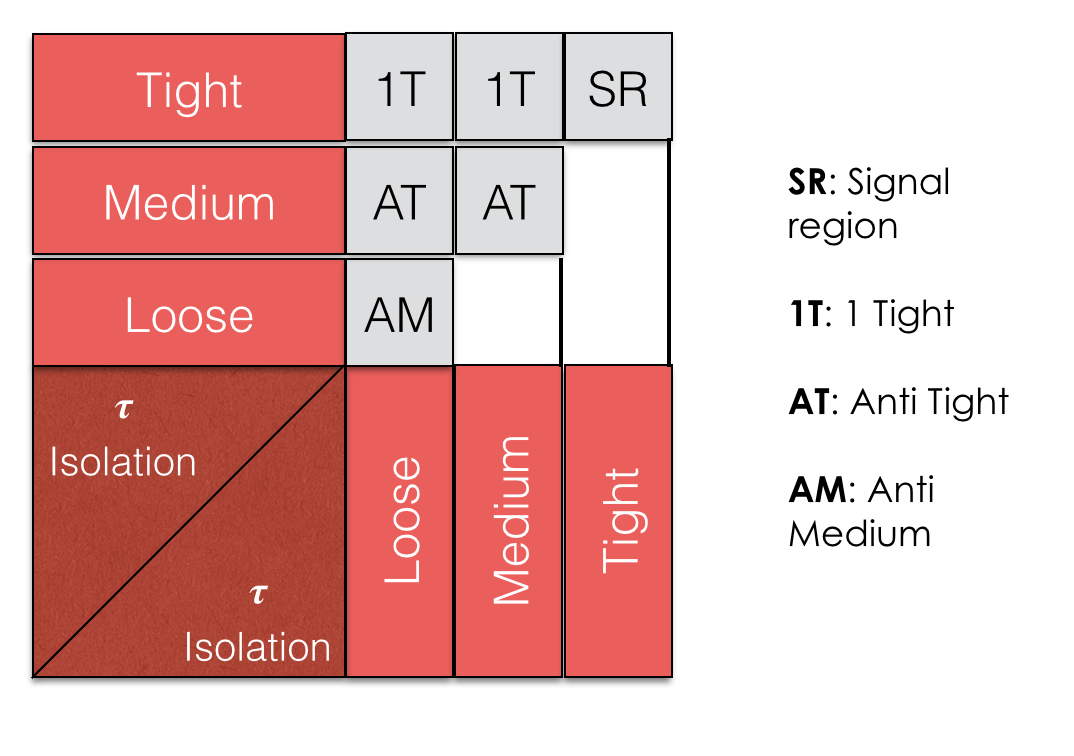
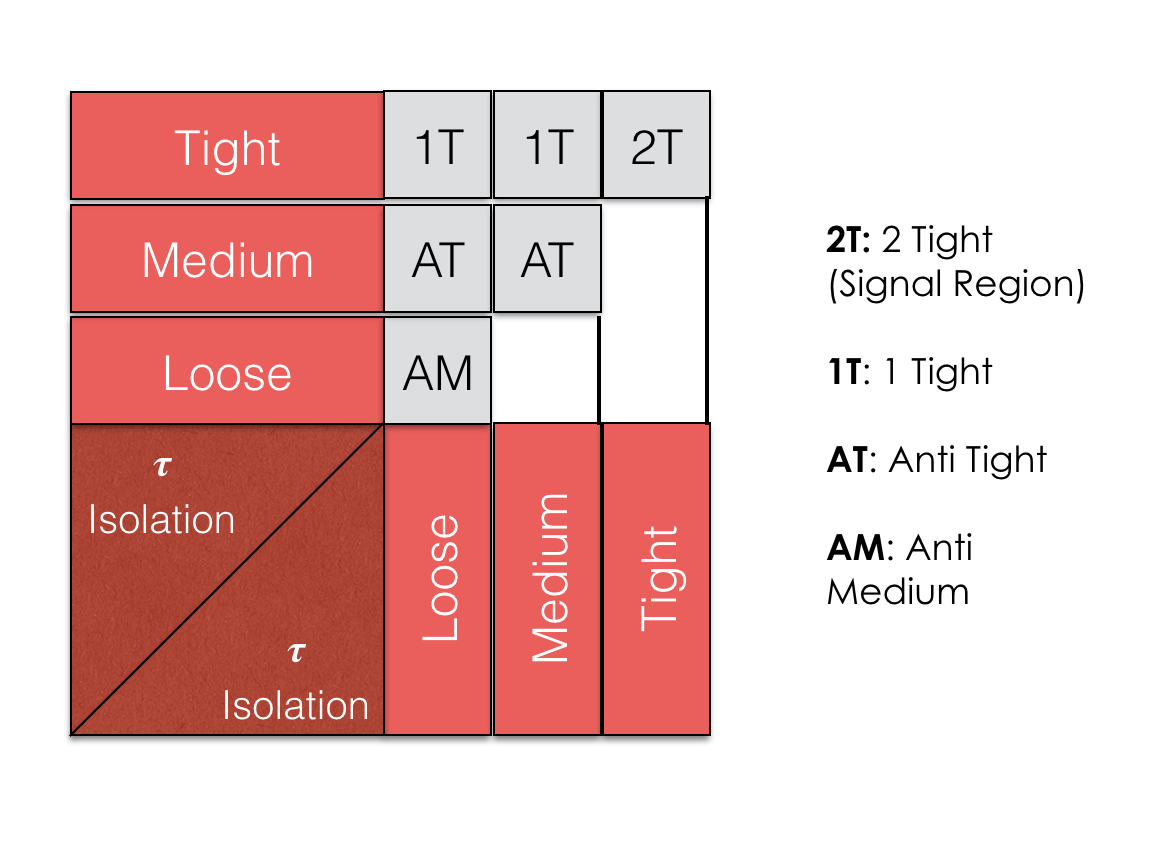
corrections for 8Tev analysis

diff --git a/analysis/analysis.tex b/analysis/analysis.tex
@@ -6,33 +6,22 @@ The following chapter describes the analysis with two same sign \hadtau and two 
 The analysis is performed using data collected with the CMS detector
 in proton-proton collisions at a centre of mass energy of \CM = 8\tev at the LHC. The data samples correspond to an integrated luminosity of \lumiOld. 
 
-Even though the analysis original concept was relying on the usage of a VBF-based trigger for an online selections on the kinematic properties of the di-jet system resulting from the VBF processes the only unprescaled available alternative is the \texttt{HLT\_\-DoubleMedium\-IsoPFTau35\_\-Trk*\_\-eta2p1\_\-Prong1\_\-v*} trigger. This trigger is the least competitive among all the lepton trigger but is the one with the highest signal acceptance for the \hadtau channel.
+The first analysis concept was relying on the usage of a VBF-based trigger for online selection. By doing its online selction  over the properties of the di-jet system
 
-------
-The events preselected for this analysis in the τµτhad, τeτµ, and τµτµ final states are required
-to pass the single-muon Level-1 (L1) trigger with a pT threshold of 7 GeV and the single
-muon High Level Trigger (HLT) [15], with a threshold varying from 9 GeV to 15 GeV, depending
-on the instantaneous luminosity. Events in the τeτhad final state are selected using
-the single-electron L1 trigger with a threshold of 8 GeV in the transverse energy, and a
-single-electron HLT trigger with a threshold of 12 GeV at higher instantaneous luminosity.
-At the end of the 2010 data taking period, a combined e+τ trigger was used to maintain
-efficiency as the instantaneous luminosity increased. The trigger has the same L1 requirements
-as the electron trigger, but the HLT requires the presence of an electron of transverse
-energy larger than 12 GeV and a hadronic tau decay with pT larger than 15 GeV, tagged
-with a simplified version of the tau reconstruction algorithm with a less restrictive selection
-than the one used in the offline analysis. The tau reconstruction at HLT is performed
-using PF objects. Jets are reconstructed with an iterative cone algorithm and tracking is
-performed only for jets with ET above 8 GeV. All charged particles are treated as pions,
-e.g. no muon or electron identification was applied. It is required that there is at least one
-track of pT > 1 GeV in a cone of radius 0.2 and no additional charged hadrons (tracks)
-with pT above 1.5 GeV in a cone of ∆R = 0.4. The efficiency of the L1+HLT to trigger on
-τ leptons is measured from data and is found to be ≈ 93% for a τhad identified by the full
-offline algorithm with a reconstructed pT above 15 GeV.
-Offline event selection starts with the requirement of a wel
+The original analysis design considered the usage of a VBF-based trigger. By doing the online selection over the properties of the hard jets coming from VBF processes, this trigger would a given a great freedom on the offline selection of the \hadtau properties and on \met.
 
-http://download.springer.com/static/pdf/653/art%253A10.1007%252FJHEP08%25282011%2529117.pdf?originUrl=http%3A%2F%2Flink.springer.com%2Farticle%2F10.1007%2FJHEP08%282011%29117&token2=exp=1495810198~acl=%2Fstatic%2Fpdf%2F653%2Fart%25253A10.1007%25252FJHEP08%2525282011%252529117.pdf%3ForiginUrl%3Dhttp%253A%252F%252Flink.springer.com%252Farticle%252F10.1007%252FJHEP08%25282011%2529117*~hmac=d3a839e8124a0e25a7d56a028900b1d84ae37f5774cf28adcc18e24002322230
+However the available HLT trigger was seeded by \met L1 trigger that was fully efficient at roughly $\met > 250\gev$. Implementing such value in the offline event selection would have had a drastic impact on signal events statistics as previously shown on \autoref{fig:VBF_met_pttau}.
 
------
+The other available trigger strategy was relying on the choice of a double-lepton trigger for each of the different search channel. In case of the \hadtau\hadtau channel the only unprescaled available alternative is the \texttt{HLT\_\-DoubleMedium\-IsoPFTau35\_\-Trk*\_\-eta2p1\_\-Prong1\_\-v*} trigger. This trigger is the least competitive among all the lepton trigger but is the one with the highest signal acceptance for the \hadtau channel. An efficiency study on the selected trigger is shown on \autoref{fig::trigger_turnon}.
+
+ 	\begin{figure}[tbh!]
+	\centering
+	\begin{tabular}{cc}
+		\includegraphics[width=0.75\textwidth]{analysis/pics/trigger_turnon.png}
+	\end{tabular}
+	\caption{Efficiency study on the \texttt{HLT\_\-DoubleMedium\-IsoPFTau35\_\-Trk*\_\-eta2p1\_\-Prong1\_\-v*} trigger versus the \hadtau transverse energy.The comparison of the fit curves given by the convolution of the step function with the Crystal Ball (in green) and the Gaussian (in red) is reported\cite{bib:dthesis:riccardoManzoni}.}
+	\label{fig::trigger_turnon}
+\end{figure}
 
 \section{Signal and background samples}
 
@@ -42,14 +31,14 @@ http://download.springer.com/static/pdf/653/art%253A10.1007%252FJHEP08%25282011%
 
 All the background yields, except for QCD, are taken from simulation. Simulated samples of signal and background events are generated using Monte Carlo event generators.
 
-The signal event samples are generated with the \texttt{MadGraph v5.1.5} program \cite{Alwall:2011uj}, considering pair production of gauginos with two associated partons. The signal events are generated requiring a pseudorapidity gap $|\deltaeta| > 4.2$ between the two partons, with $\pt > 30\gev$ for each parton. Signal cross sections are calculated at leading order using the MadGraph generator. The range of signal cross sections is $50^{–1}$ fb for \charginopm = \neutralinotwo masses of 100, 200 and 300\gev.
+The signal event samples are generated with the \texttt{MadGraph v5.1.5} program \cite{Alwall:2011uj}, considering pair production of gauginos with two associated partons. The signal events are generated requiring a pseudorapidity gap $|\deltaeta| > 4.2$ between the two partons, with $\pt > 25\gev$ for each parton. Signal cross sections are calculated at leading order using the MadGraph generator. The range of signal cross sections is $50^{-1}$ fb for \charginopm = \neutralinotwo masses of 100, 200 and 300\gev.
 
 Background event samples with a Higgs boson produced through VBF processes, and single top are generated with the \texttt{POWHEG v1.0r1380} program \cite{Frixione:2007vw}. 
 The \texttt{MadGraph v5.1.3} generator is used to describe Z+jets, W+jets, tt, di-boson, and VBF Z boson production. The Monte Carlo background and signal yields are normalized to the integrated luminosity of the data. 
 The \ttbar background is normalized to the next-to-next-to-leading-logarithm level using the calculations presented in references \cite{Czakon:2013goa,Melnikov:2006kv}. 
 The Z+jets and W+jets processes are normalized to next-to-next-to-leading-order using the results from the \texttt{FEWZ v2.1} \cite{Gavin:2010az} generator. 
 The di-boson background processes are normalized to next-to-leading-order using the \texttt{MCFM v5.8} \cite{Campbell:2010ff} generator, while the VBF Z boson events are normalized to next-to-leading order using the \texttt{VBFNLO v2.6} \cite{Arnold:2008rz,Arnold:2011wj}program. 
-The single-top and VBF Higgs boson background yields are taken from the powheg program, where the next-to-leading order effects are incorporated.
+The single-top and VBF Higgs boson background yields are taken from the \texttt{POWHEG} program, where the next-to-leading order effects are incorporated.
 
 All Monte Carlo samples incorporate the \texttt{CTEQ6L1} \cite{Pumplin:2002vw} or \texttt{CTEQ6M} \cite{Nadolsky:2008zw} parton distribution functions (PDF). The corresponding evaluation of uncertainties in the signal cross sections is discussed in Section \ref{sec:systematics}. The \texttt{POWHEG} and \texttt{MadGraph} generators are interfaced with the \texttt{PYTHIA v6.4.22} \cite{Sjostrand:2006za} program, which is used in the mathing between the matrix elements and the parton shower, and the hadronization processes. 
 
@@ -93,20 +82,20 @@ For better visualization and understanding all the selection criteria are summar
 %TODO (LOW priority) it’s more elegant to have this in a table instead of a bullet list.
 
 \begin{itemize}
+	\item \textbf{VBF selection}
+	\begin{itemize}
+		\item at least two jets with $p_{T}^{jet}\geq30~$\gev, $|\eta_{jet}|\leq5$ and loose jetID
+		\item $|\Delta\eta(jet,jet)| > 4.2$
+		\item $sign(\eta^{jet 1}\cdot\eta^{jet 2})==-1$
+		\item $\mjj>250~$\gev
+	\end{itemize}
 	\item \textbf{Central selection}
 	\begin{itemize}
 		\item Trigger: \texttt{HLT\_DoubleMediumIsoPFTau35\_Trk*\_eta2p1\_Prong1\_v*}
 		\item two one-prong hadronically decaying $\tau$ with $\pt\geq45~$\gev 
-		\item $\met > $ 30
-		\item at least two jets with $p_{T}^{jet}\geq30~$\gev, $|\eta_{jet}|\leq5$ and loose jetID
+		\item $\met > $ 30\gev
 		\item $\Delta R(jet,\tau)\geq0.3$
 		\item b-tag veto
-	\end{itemize}
-	\item \textbf{VBF selection}
-	\begin{itemize}
-		\item $|\Delta\eta(jet,jet)| > 4.2$
-		\item $sign(\eta^{jet 1}\cdot\eta^{jet 2})==-1$
-		\item $\mjj>250~$\gev
 	\end{itemize}
 \end{itemize}
 
@@ -129,18 +118,18 @@ The QCD background contribution for the like-sign di-\hadtau channel is done usi
  	%TODO don’t use these funny names here: just use “tight”, “loose” and “medium”, introduced in the object definition, with a reference such that the really interested can find back what you exactly mean. and you have the appendix anyway.
  	
  	\begin{enumerate}
- 		\item Tight or T isolated $\hadtau$ for \texttt{byTight\-IsolationMVA3newDMwLT};
- 		\item Medium or M isolated $\hadtau$ for \texttt{byMedium\-IsolationMVA3newDMwLT} but failed \texttt{byTight\-IsolationMVA3newDMwLT};
- 		\item Loose or L isolated $\hadtau$  for \texttt{byLoose\-IsolationMVA3newDMwLT} but failed \texttt{byTight\-IsolationMVA3newDMwLT} and \texttt{byMedium\-IsolationMVA3newDMwLT}.
+ 		\item Tight (T) isolated $\hadtau$ for \texttt{byTight\-Isolation\-MVA3\-newDMwLT};
+ 		\item Medium (M) isolated $\hadtau$ for \texttt{byMedium\-Isolation\-MVA3\-newDMwLT} but failed \texttt{byTight\-Isolation\-MVA3\-newDMwLT};
+ 		\item Loose (L) isolated $\hadtau$  for \texttt{byLoose\-Isolation\-MVA3\-newDMwLT} but failed \texttt{byTight\-Isolation\-MVA3\-newDMwLT} and \texttt{byMedium\-Isolation\-MVA3\-newDMwLT}.
  	\end{enumerate}
  	
 Each event with a successfully reconstructed LS di-$\hadtau$ pair falls into a exclusive isolation region as shows on Figure \ref{fig:tauisoregions}:
  	
  	\begin{itemize}
- 		\item SR or signal region consisting of two tight isolated $\hadtau$;
- 		\item 1T or One Tight isolated $\hadtau$ region consisting of one tight isolated $\hadtau$ and an additional medium or loose isolated $\hadtau$;
- 		\item AT or Anti Tight isolation region consisting of at least one medium isolated $\hadtau$ and an additional medium or loose isolated $\hadtau$;
- 		\item AM or Anti Medium isolation region consisting of two loose isolated $\hadtau$.
+ 		\item 2T or signal region (SR) consisting of two tight isolated $\hadtau$;
+ 		\item One Tight (1T) isolated $\hadtau$ region consisting of one tight isolated $\hadtau$ and an additional medium or loose isolated $\hadtau$;
+ 		\item  Anti Tight (AT) isolation region consisting of at least one medium isolated $\hadtau$ and an additional medium or loose isolated $\hadtau$;
+ 		\item  Anti Medium (AM) isolation region consisting of two loose isolated $\hadtau$.
  	\end{itemize}
  
  	\begin{figure}[tbh!]
@@ -173,8 +162,8 @@ Using these definitions one signal region (SR) and seven control regions (CR) ar
 The estimation of the events in the signal region is equivalent to the classic ABCD method consisting in counting the number of events in CR2 and multiplying it with a proper conversion factor. This estimation method has been developed under the following assumptions:
 
 \begin{itemize}
-	\item[1] The VBF selection efficiency is independent from any trigger efficiency concerning $\hadtau$ isolation such that each contribution to the numerator and denominator cancels out;
-	\item[2] The VBF selection efficiency is also independent from any \met cut applied in order to reduce QCD background contributions. 
+	\item The VBF selection efficiency is independent from any trigger efficiency concerning $\hadtau$ isolation such that each contribution to the numerator and denominator cancels out;
+	\item The VBF selection efficiency is also independent from any \met cut applied in order to reduce QCD background contributions. 
 \end{itemize}
 
 The predicted number of QCD events in the signal region $N^{QCD}_{SR}$ is defined as:
@@ -254,10 +243,10 @@ Total nonQCD Monte Carlo  &$ 0.067\pm0.0053$    &$ 0.77\pm0.023 $  \\
 	\label{table:VBFeffBKGprediction} % is used to refer this table in the text
 \end{table}
 
-\section{Data Driven method validation}
+\section{Validation of the Data Driven method }
 \label{QCD_bg_pred_validation}
 
-The data-driven background estimation method, as previously shown, offered a possibility to circumvent the scarce statistics of the simulated QCD samples. The results given in \autoref{section:results} can be backed by a simulation based approach which come with two main advantages. First this it can confirm the assumption made for the data-driven method which states that all control regions and the signal region are indeed dominated by QCD events. Second this approach can show that VBF efficiency $\epsilon^{QCD}_{VBF}$ defined in \autoref{eq:vbfeff} is independent, within the systematic uncertainty, with respect to a selection over \met or \hadtau transverse momentum. This section will give a brief description and results of this simulation based approach as shown in the contribution done by one of the previous members of the University of Hamburg research group working on the same analysis \cite{bib:phdthesis:denis}.
+The data-driven background estimation method, as previously shown, offered a possibility to circumvent the scarce statistics of the simulated QCD samples. The results given in \autoref{section:results} can be backed by a simulation based approach which come with two main advantages. First, this it can confirm the assumption made for the data-driven method which states that all control regions and the signal region are indeed dominated by QCD events. Second, this approach can show that VBF efficiency $\epsilon^{QCD}_{VBF}$ defined in \autoref{eq:vbfeff} is independent, within the systematic uncertainty, with respect to a selection over \met or \hadtau transverse momentum. This section will give a brief description and results of this simulation based approach as presented in the PhD thesis of Denis Rathjens \cite{bib:phdthesis:denis}.
 
 \subsection{The simulation-based method}
 \label{dihad:subsec:eventweight}
@@ -282,7 +271,7 @@ It is not granted that a jet ,with $\pt(\hadtau)> 45\gev$, which gets mis-recons
 
 The last of the corrections is the efficiency of the di-$\tau$ trigger in selecting events with two fake \hadtau , $\epsilon^{\text{trigger}}(\text{ID})$. This efficiency is derived for a single \hadtaufake from a study over W+jets events where one of the jets fakes an \hadtau.
 
-This dicing method is applied for QCD samples and W+jet samples, in the case where only one of the jets is reconstructed as \hadtaufake. \autoref{fig::CR2_controlplot} shows a very good agreement between data and Monte Carlo for di-\hadtau and \met distributions in control region 2. All shown QCD distributions are scaled in order to exactly match the difference between the amount of data measured to the amount of non-QCD background events expected in the control region with the exception of the signal region where the scaling is done to the prediction of the ABCD method performed on data.
+This method, also called "dicing", is applied for QCD samples and W+jet samples, in the case where only one of the jets is reconstructed as \hadtaufake. 	\autoref{fig::CR2_controlplots1} and \autoref{fig::CR2_controlplots2} show a very good agreement between data and Monte Carlo for di-\hadtau and \met distributions in control region 2. All shown QCD distributions are scaled in order to exactly match the difference between the amount of data measured to the amount of non-QCD background events expected in the control region with the exception of the signal region where the scaling is done to the prediction of the ABCD method performed on data \cite{bib:phdthesis:denis}.
 
 
 \begin{figure}[tbh!]
@@ -292,7 +281,17 @@ This dicing method is applied for QCD samples and W+jet samples, in the case whe
 		\includegraphics[width=0.45\textwidth]{PLOTS/diTauHadLSQCDPlots/AllMCdiced/OS_CR2/OS_Central_invertedVBF_2TightIso_CR2/h_met_log.pdf} 		
 	\end{tabular}
 	\caption{(Left) di-\hadtau invariant mass and (Right) \met distribution for control region 2.}
-	\label{fig::CR2_controlplots}
+	\label{fig::CR2_controlplots1}
+\end{figure}
+
+\begin{figure}[tbh!]
+	\centering
+	\begin{tabular}{cc}
+		\includegraphics[width=0.45\textwidth]{PLOTS/diTauHadLSQCDPlots/AllMCdiced/OS_CR2/OS_Central_invertedVBF_2TightIso_CR2/h_tau1pt_log.pdf}
+		\includegraphics[width=0.45\textwidth]{PLOTS/diTauHadLSQCDPlots/AllMCdiced/OS_CR2/OS_Central_invertedVBF_2TightIso_CR2/h_jet2pt_log.pdf} 		
+	\end{tabular}
+	\caption{(Left) Leading \hadtau traverse momentum and (Right) next to leading jet transverse momentum for control region 2.}
+	\label{fig::CR2_controlplots2}
 \end{figure}
 
 \subsection{$\epsilon^{VBF}$-stability with regard to $\tau_{h}$-isolation and $E_{T}^{miss}$-cuts}
@@ -305,7 +304,7 @@ The efficiency of the VBF selection $\epsilon^{VBF}$ has been defined under the 
  \begin{figure}[!h]
 	\centering
 	\includegraphics[width=0.5\textwidth]{analysis/pics/vbeff_vs_tauiso.pdf}
-	\caption{Distribution of $\epsilon^{VBF}$ against the second to leading \hadtau momentum in case of two \hadtau passing a tight (TT) or loose ($\text{TM}_{\text{I}}$) isolation requirement. It can be observed $\epsilon^{VBF}$ decreases before stabilizing at high momenta.}
+	\caption{Distribution of $\epsilon^{VBF}$ against the second to leading \hadtau momentum in case of two \hadtau passing a tight (TT) or loose ($\text{TM}_{\text{I}}$) isolation requirement. It can be observed $\epsilon^{VBF}$ decreases before stabilizing at high momenta \cite{bib:phdthesis:denis}.}
 	\label{dihad:fig:vbeff_vs_tauiso}
 \end{figure}
 
@@ -314,7 +313,7 @@ An additional stability study is performed by considering the deviation of the w
 \begin{figure}[!h]
 	\centering
 	\includegraphics[width=0.5\textwidth]{analysis/pics/vbeff_vs_met.pdf}
-	\caption{Deviation of the weighted arithmetic mean (WAM) of the VBF efficiency of all control region ratios with respect to \met. A slight quadratic divergence is observed for $\met > 30\gev$.}
+	\caption{Deviation of the weighted arithmetic mean (WAM) of the VBF efficiency of all control region ratios with respect to \met. A slight quadratic divergence is observed for $\met > 30\gev$ \cite{bib:phdthesis:denis}.}
 	\label{dihad:fig:vbeff_vs_met}
 \end{figure}
  
@@ -331,16 +330,16 @@ To summarize, two systematic uncertainties are taken into account in this study:
 \section{Signal samples systematic uncertanties}
 \label{sec:systematics}
 
-The following systematics have been considered while considering the signal samples contribution in signal region:
+The following systematics have been considered while estimating the signal samples contribution in signal region:
 
 \begin{itemize}
-	\item \textbf{Parton Distribution Functions (PDF):} The systematic effect due to imprecise knowledge of the parton distribution functions is determined by comparing CTEQ6.6L \cite{Nadolsky:2008zw}, MSTW2008nnlo \cite{Martin:2009iq}, and NNPDF20 PDF \cite{Ubiali:2008uk} with the default PDF and variations within the family of parametrization. The maximal deviation from the central value is used the overall systematic due to PDFs. We obtain a value of 16\% on the cross section uncertainty and 23\% on the signal acceptance.
+	\item \textbf{Parton Distribution Functions (PDF):} The systematic effect due to imprecise knowledge of the parton distribution functions is determined by comparing CTEQ6.6L \cite{Nadolsky:2008zw}, MSTW2008nnlo \cite{Martin:2009iq}, and NNPDF20 PDF \cite{Ubiali:2008uk} with the default PDF and variations within the family of parametrization. The maximal deviation from the central value is used as the overall systematic uncertainty due to PDFs. We obtain a value of 16\% on the cross section uncertainty and 23\% on the signal acceptance.
 	
 	\item \textbf{Initial State Radiation (ISR) and Final State Radiation (FSR):} The systematic effect due to imprecise modeling of initial and final state radiation is determined by re-weighting events to account for effects such as missing a terms in the soft-collinear approach \cite{Nanava:2003cg} and missing NLO terms in the parton shower approach \cite{Miu:1998ju}. We obtain uncertainties of 0.9\% and 1.2\% for ISR and FSR respectively.
 	
 	\item \textbf{Luminosity:} We consider a 2.6\% uncertainty on the measured luminosity \cite{CMS:2012rua}.
 	
-	\item \textbf{Trigger, Reconstruction, and Selection:}  An overall uncertainty is applied for the trigger uncertainties determined on the correction factors described in AN-12-321 and which are measured using tag-and-probe methods. We consider 6.8\% uncertainty per hadronic tau leg \cite{CMS:2011msa}. Scale factors for $\tau_{h}$ identification are taken from the tau POG and obtained using a fit of data in a Z$\to\tau\tau$ enhanced region and fixing the cross section to that measured using ee/$\mu\mu$. We consider a 100\% correlation among the 2 tau legs, therefore we consider 13.6\% uncertainty on the signal acceptance.
+	\item \textbf{Trigger, Reconstruction, and Selection:}  An overall uncertainty is applied for the trigger uncertainties determined on the correction factors described in \cite{bib:AN-12-321} and which are measured using tag-and-probe methods. We consider 6.8\% uncertainty per hadronic tau leg \cite{CMS:2011msa}. Scale factors for $\tau_{h}$ identification are taken from the tau POG and obtained using a fit of data in a Z$\to\tau\tau$ enhanced region and fixing the cross section to that measured using ee/$\mu\mu$. We consider a 100\% correlation among the 2 tau legs, therefore we consider 13.6\% uncertainty on the signal acceptance.
 	
 	\item \textbf{$b$-Tagging Efficiency:} We consider a 30\% uncertainty on the mis-tag rate as measured by the b-tagging POG \cite{CMS:2011cra}. For the case of our signal, the systematic uncertainty on the requirement of 0 jets mis-tagged as b-jets is determined by propagating the 30\% uncertainty on the mis-tag rate through the following equation (which represents the signal efficiency for requiring 0 jets mis-tagged as b-Jets):
 	
@@ -350,9 +349,9 @@ The following systematics have been considered while considering the signal samp
 	
 	where $P(n)$ is the probability to obtain $n$ additional jets (non-tau and non-lepton) in the event, $C(n,m)$ the combinatorial of $n$ $choose$ $m$, and $f$ the mis-tag rate. The probability to obtain at least one additional jet in the event is much less than 1\%. Therefore, based on the above equation, the mis-tag rate and uncertainty, and the probability to obtain at least one additional jet we calculate a negligible systematic effect on our signal due to the mis-tag rate.
 	
-	\item \textbf{Tau Energy Scale:} We consider the effect of the 3\% tau energy scale uncertainty measured by the tau POG on the signal acceptance. The tau 4-momentum is scaled by a factor of $k=1.03$ ($p_{smeared} = k \cdot p_{default}$) and variables are recalculated using $p_{smeared}$. We find that by using $p_{smeared}$ calculated with a factor of $k=\pm 1.03$, the signal acceptance fluctuates by 4\%. Therefore, we assign a 4\% systematic on the signal acceptance due to tau energy scale.
+	\item \textbf{Tau Energy Scale:} We consider the effect of the 3\% tau energy scale uncertainty measured by the tau POG on the signal acceptance. The tau 4-momentum is scaled by a factor of $k=1.03$ ($p_{scaled} = k \cdot p_{default}$) and variables are recalculated using $p_{scaled}$. We find that by using $p_{scaled}$ calculated with a factor of $k=\pm 1.03$, the signal acceptance fluctuates by 4\%. Therefore, we assign a 4\% systematic on the signal acceptance due to tau energy scale.
 	\item \textbf{Jet Energy Scale:}  The uncertainty on jet energy correction (JEC) is the result of a factorized approach on $Anti-k_{t}$ jets with $R=0.5$ clustered from Particle Flow (PF) candidates. For MC samples JEC is divided in different steps that take into account several levels of correction. The fist step consist in a single level of corrections (L1) which estimates the $p_{t}$ offset in bins of $\eta$ and $N_{PV}$ for AK5PF jets. The second step, known as MC-Truth Corrections, consists in two level of corrections (L2 and L3) converging into an $\eta$ , $p_{t}$ dependent scaling factor fully derived from MC after applying L1 corrections. The last step takes into account an L5 correction and uncertainties for individual flavors and predefined mixtures inside the reconstructed jets. We assign a 2\% systematic on the signal acceptance due to jet energy scale.
-	\item \textbf{Jet Energy Resolution:}  The measured jet transverse momentum is not necessarily equal to the energy of the original particle due to e.g. a limited detector resolution. This effect is quantified by the jet transverse momentum response R which is defined as $R = p_{T} / p_{T}^{particle}$  where $p_{T}$ denotes the transverse momentum of the jet measured at detector level and $p_{T}^{particle}$ is the transverse momentum of the original particle-level jet. The average response $\langle R \rangle$ is referred to as jet energy scale and calibrated such that $\langle R \rangle = 1$ for fixed $p_{T}^{particle}$. The response usually depends on the jet momenta as well as on the pseudorapidity. This is expected since the quality of the jet measurement is directly related to the detector sub-components and the energy of the particles originating e.g. from the track-reconstruction efficiency or the individual amount of detector material. The core of the response is caused by the intrinsic resolution of the various sub-detector components and the precision of the jet clustering algorithms. The response tails are mainly caused by severe jet-mismeasurements. These can be e.g. detector effects like shower leakage or detector noise. Finally, the relative jet transverse momentum resolution is defined as the width of the response distribution corresponding to the gaussian part and hence is a function of $p_{T}$ and $\eta$ as well as the total response. One possibility to measure the resolution of the jet transverse momenta in data as well as in simulated events is to utilize the dijet asymmetry A. For events with at least two jets it is defined as:
+	\item \textbf{Jet Energy Resolution:}  The measured jet transverse momentum is never equal to the energy of the original particle due to e.g. a limited detector resolution. This effect is quantified by the jet transverse momentum response R which is defined as $R = p_{T} / p_{T}^{particle}$  where $p_{T}$ denotes the transverse momentum of the jet measured at detector level and $p_{T}^{particle}$ is the transverse momentum of the original particle-level jet. The average response $\langle R \rangle$ is referred to as jet energy scale and calibrated such that $\langle R \rangle = 1$ for fixed $p_{T}^{particle}$. The response usually depends on the jet momenta as well as on the pseudorapidity. This is expected since the quality of the jet measurement is directly related to the detector sub-components and the energy of the particles originating e.g. from the track-reconstruction efficiency or the individual amount of detector material. The core of the response is caused by the intrinsic resolution of the various sub-detector components and the precision of the jet clustering algorithms. The response tails are mainly caused by severe jet-mismeasurements. These can be e.g. detector effects like shower leakage or detector noise. Finally, the relative jet transverse momentum resolution is defined as the width of the response distribution corresponding to the gaussian part and hence is a function of $p_{T}$ and $\eta$ as well as the total response. One possibility to measure the resolution of the jet transverse momenta in data as well as in simulated events is to utilize the dijet asymmetry A. For events with at least two jets it is defined as:
 	
 	\begin{equation}
 	A = \frac{p_{T,1} - p_{T,2}}{p_{T,1} + p_{T,2}}
@@ -366,7 +365,7 @@ The following systematics have been considered while considering the signal samp
 	
 	Using the latest JER uncertainty collection from \texttt{Summer13\_\-V5\_DATA\_\-Uncertainty\-Sources\_\-AK5PFchs.txt} assign a 4\% systematic on the signal acceptance due to jet energy resolution. 
 	
-	\item \textbf{MET:} The uncertainty on MET for our signal process is driven by the jet energy scale (non-tau jets) (JES), light lepton energy/momentum scale (LES), and unclustered energy (UCE). The systematic effect from MET due to TES, JES and LES is included in the JES, TES, LES systematic uncertainties described above. We find that a 10\% uncertainty on the unclustered energy resultsin at most a 0.5\% fluctuation on the signal acceptance.
+	\item \textbf{MET:} The uncertainty on MET for our signal process is driven by the jet energy scale (non-tau jets) (JES), light lepton energy/momentum scale (LES), and unclustered energy (UCE). The systematic effect from MET due to TES, JES and LES is included in the JES, TES, LES systematic uncertainties described above. We find that a 10\% uncertainty on the unclustered energy results in at most a 0.5\% fluctuation on the signal acceptance.
 \end{itemize}
 
 \begin{table}[h]
@@ -412,13 +411,11 @@ N^{QCD}_{SR} = 7.59\pm0.92(stat.)^{-0.42(MC)+1.34(\tau iso)+0.20(MET)}_{+0.35(MC
 \label{dihad:eq:QCDbgpredCorrectResult}
 \end{equation}
 
-\section{Final yields for the di-\hadtau like-sign channel}
-
-The like-sign signal region (LS) consist of events satisfying the criteria shown in section \ref{sec:eventselection} with the di-$\tau$ charge requirement. \autoref{table:SReventcount} shows the contributions in the signal region from all MC samples and data. As described in section \ref{dihad:subsec:eventweight}, the QCD and W+jet  background contribution have been "diced" and accordingly reweighted. 
+The like-sign signal region consist of events satisfying the criteria shown in section \ref{sec:eventselection} with the di-$\tau$ charge requirement. \autoref{table:SReventcount} shows the contributions in the signal region from all MC samples and data. As described in section \ref{dihad:subsec:eventweight}, the QCD and W+jet  background contribution have been "diced" and accordingly reweighted. 
 
 QCD is the dominant background and its data-driven prediction shown in \autoref{dihad:eq:QCDbgpredCorrectResult} is fully compatible within statistical and systematic uncertainty with the simulation-driven results shown in \autoref{table:SReventcount}. 
 
-\met and \mjj distribution in the signal region (SR) for data and Monte Carlo are shown on \autoref{fig:LS_SR_h_met_dijetinvariantmass_log}.
+\met and \mjj distribution in the signal region (SR) for data and Monte Carlo are shown in \autoref{fig:LS_SR_h_met_dijetinvariantmass_log}.
 
 \begin{table}[ht]
 	\centering{
@@ -440,7 +437,7 @@ QCD is the dominant background and its data-driven prediction shown in \autoref{
 			\hline\hline
 		\end{tabular}
 	}
-	\caption{\label{table:SReventcount}Number of events for data and all Monte Carlo contribution in the signal region. The QCD prediction has been corrected for the unidirectional MET-bias described in section\ref{dihad:subsec:stability} for the combination of the systematic errors.}
+	\caption{\label{table:SReventcount}Number of events for data and all Monte Carlo contribution in the signal region. The QCD prediction has been corrected for the unidirectional MET-bias described in section \ref{dihad:subsec:stability} for the combination of the systematic errors.}
 	% is used to refer this table in the text
 \end{table}
 
@@ -463,7 +460,7 @@ A combination of the opposite and like-sign signal yields coming from all the di
 	\label{fig::mjj_combined}
 \end{figure}
 
-\section{Limits}
+\section{Exclusion limits on chargino/neutralino masses}
 
 Upper limits at $95\%$ on the cross sections as function of $m_{\tilde{\chi}_{2}^{0}}=m_{\tilde{\chi}_{1}^{\pm}}$ are set for like-sign and opposite channel. The results are presented using models with a fixed mass for the LSP $m_{\tilde{\chi}_{1}^{0}} = 0\gev$, a $\tilde{\chi}_{1}^{\pm}$ mass between $100 \leq m_{\tilde{\chi}_{1}^{\pm}} \leq 300\gev$ and a $\tilde{\tau}$ mass of $m_{\tilde{\tau}} = 0.95 m_{\tilde{\chi}_{1}^{\pm}}$ .
 
